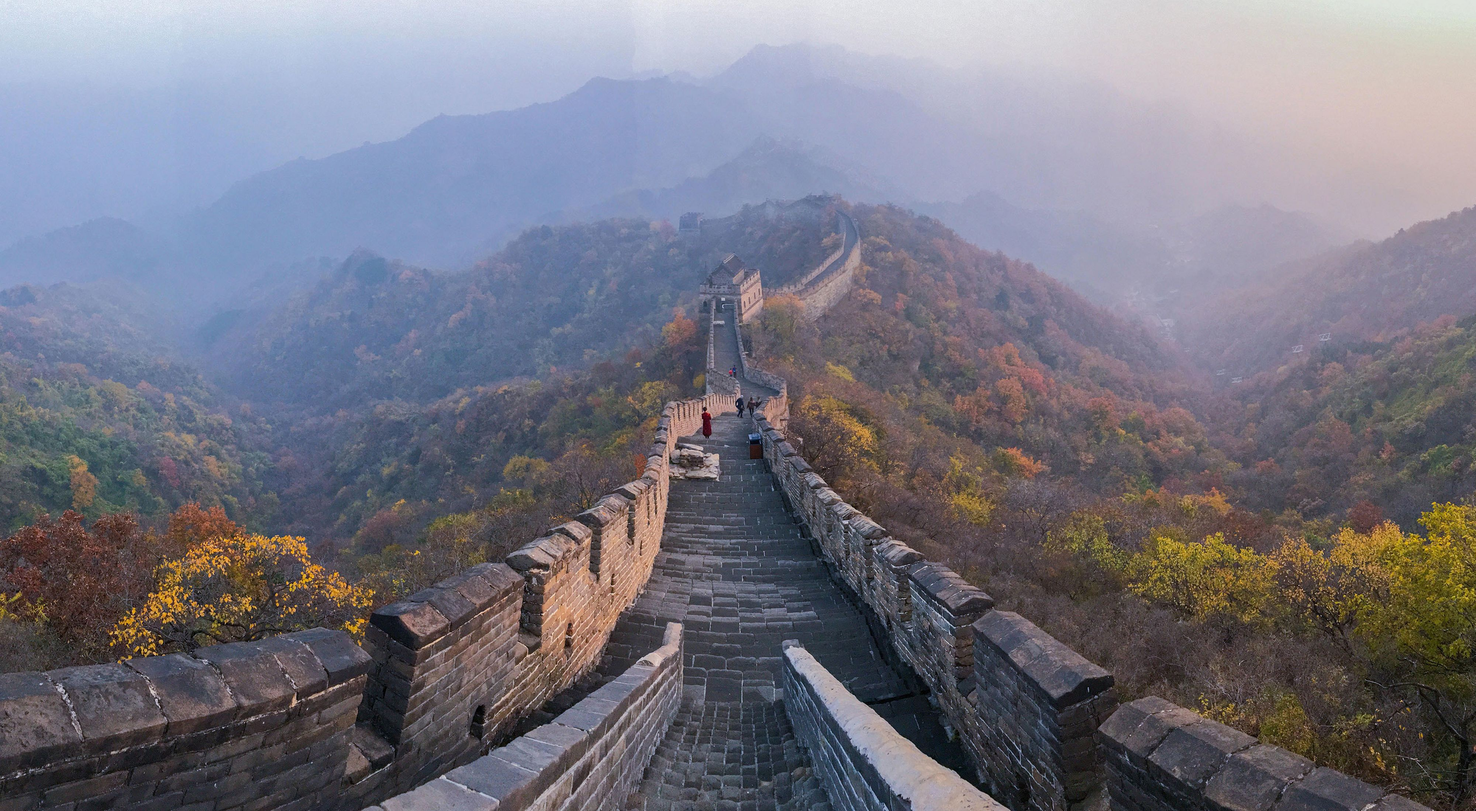
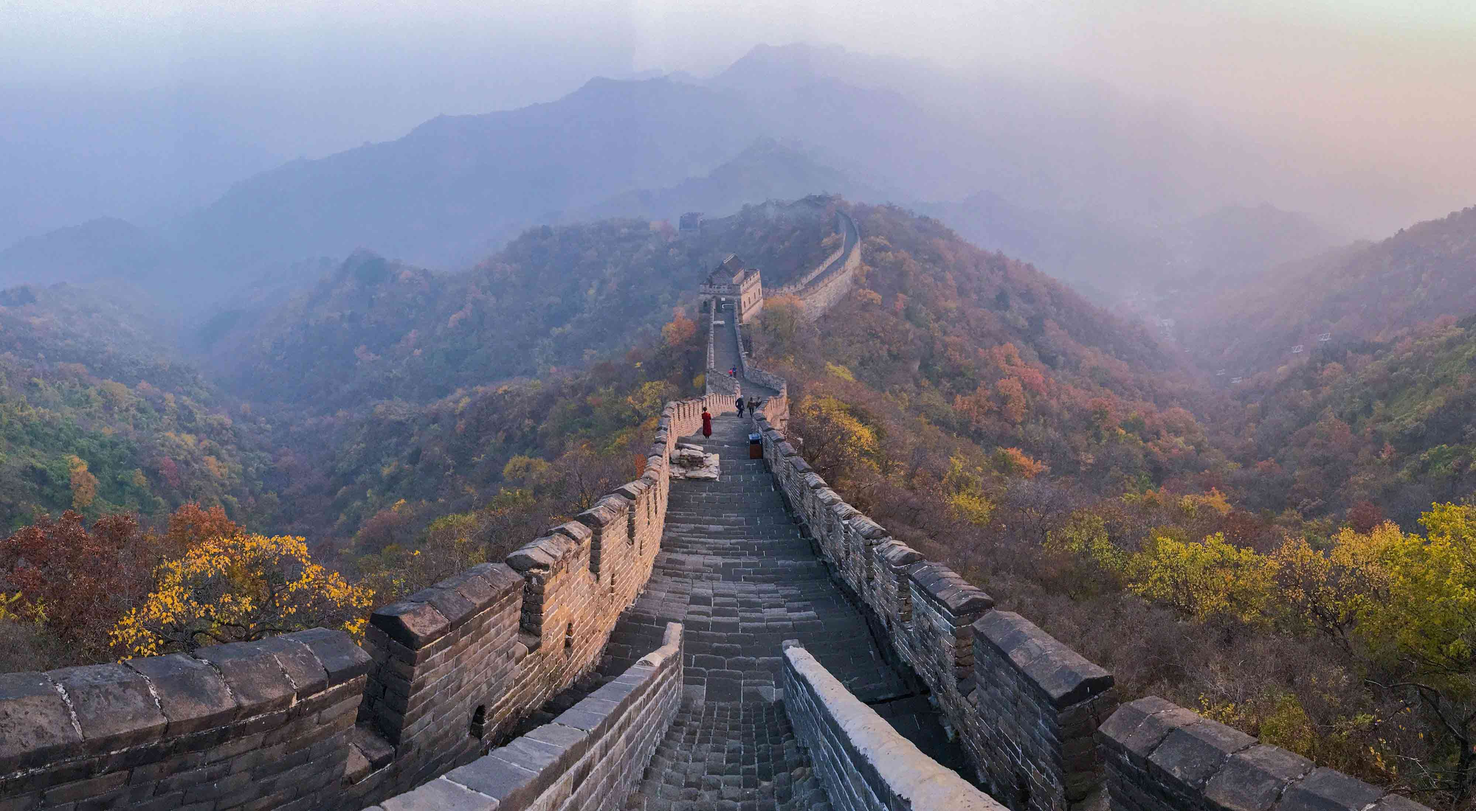
Ft 164489745 Optimised image size

Changed region(s): [[0.0625, 0.6491, 0.25, 0.8036], [0.7812, 0.68, 0.9375, 0.7418], [0.9375, 0.6182, 1.0, 0.68]]

diff --git a/src/styles/css/signup-style/signup-style.css b/src/styles/css/signup-style/signup-style.css
@@ -108,11 +108,7 @@ body {
   cursor: pointer;
 }
 
-.form_wrapper input:hover {
-  background: rgba(34, 50, 84, 0.03);
-}
-
-.form_wrapper input:not(:placeholder-shown) + span {
+.form_wrapper input:not(:placeholder-shown)+span {
   color: #5a667f;
   -webkit-transform: translateY(-30px) scale(0.85);
   transform: translateY(-30px) scale(0.85);
@@ -123,7 +119,7 @@ body {
   background: none;
 }
 
-.form_wrapper input:focus + span {
+.form_wrapper input:focus+span {
   color: #00aef9;
   -webkit-transform: translateY(-30px) scale(0.85);
   transform: translateY(-30px) scale(0.85);
